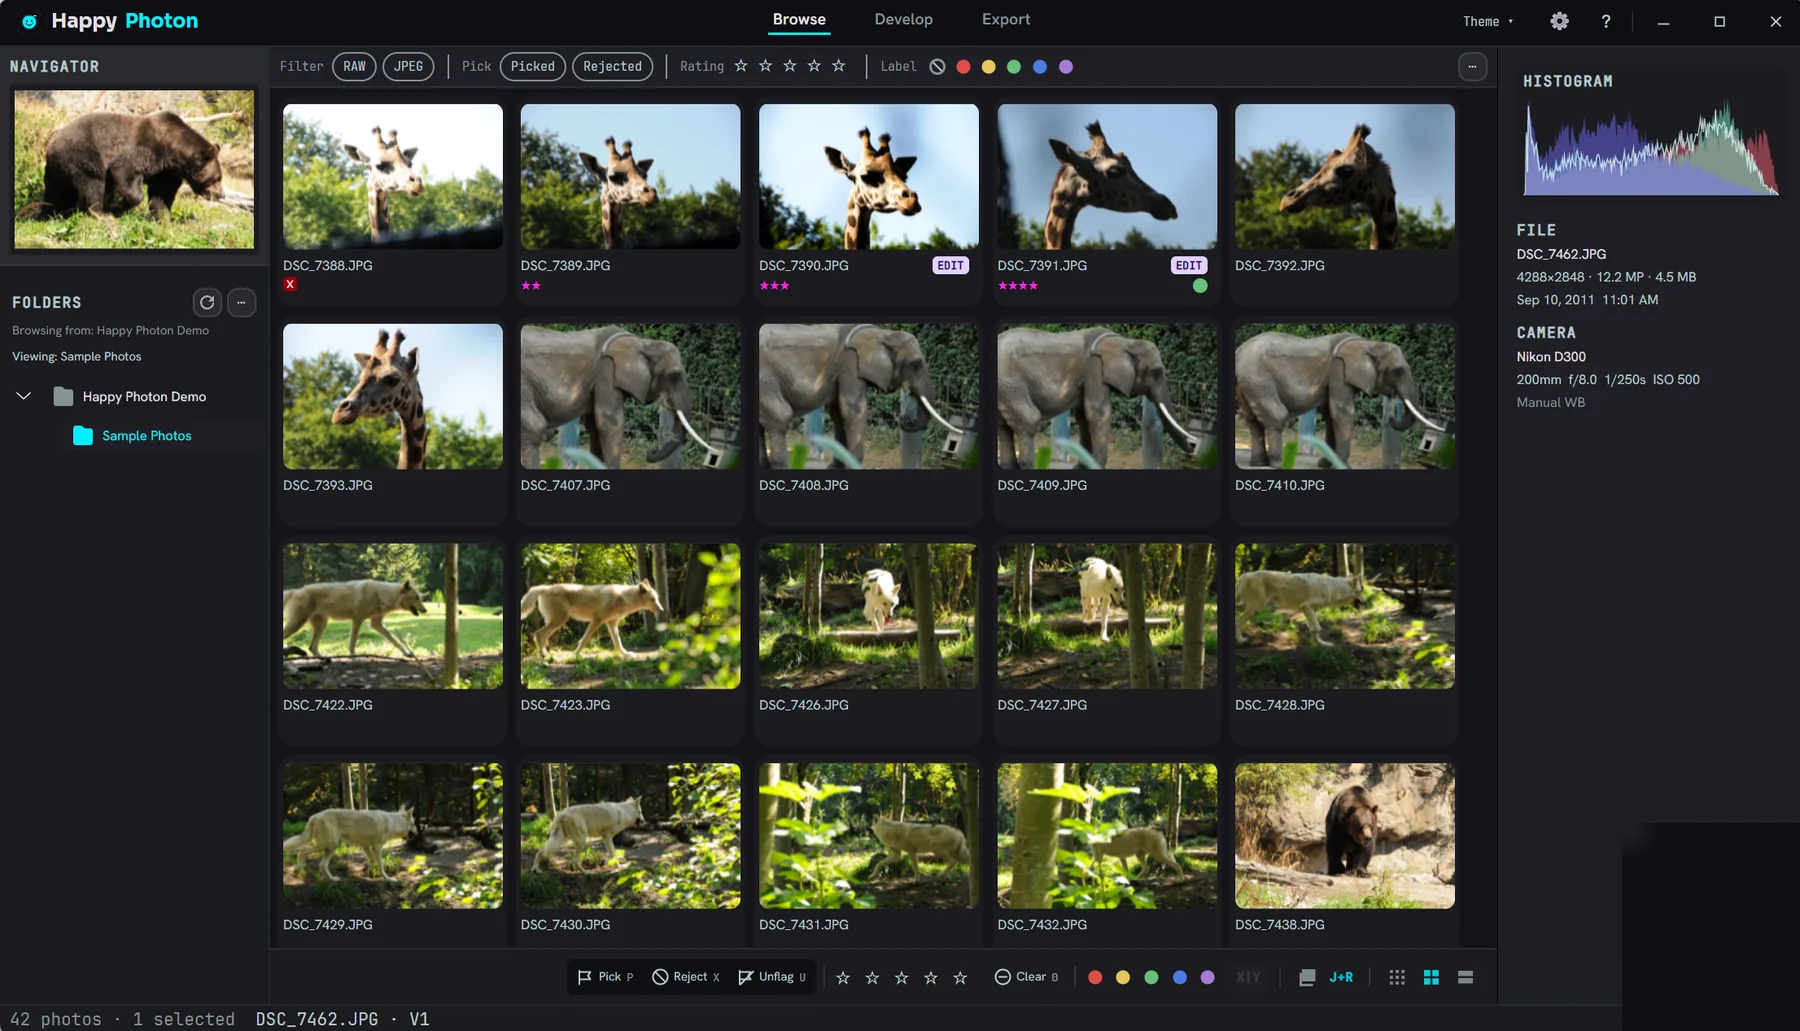
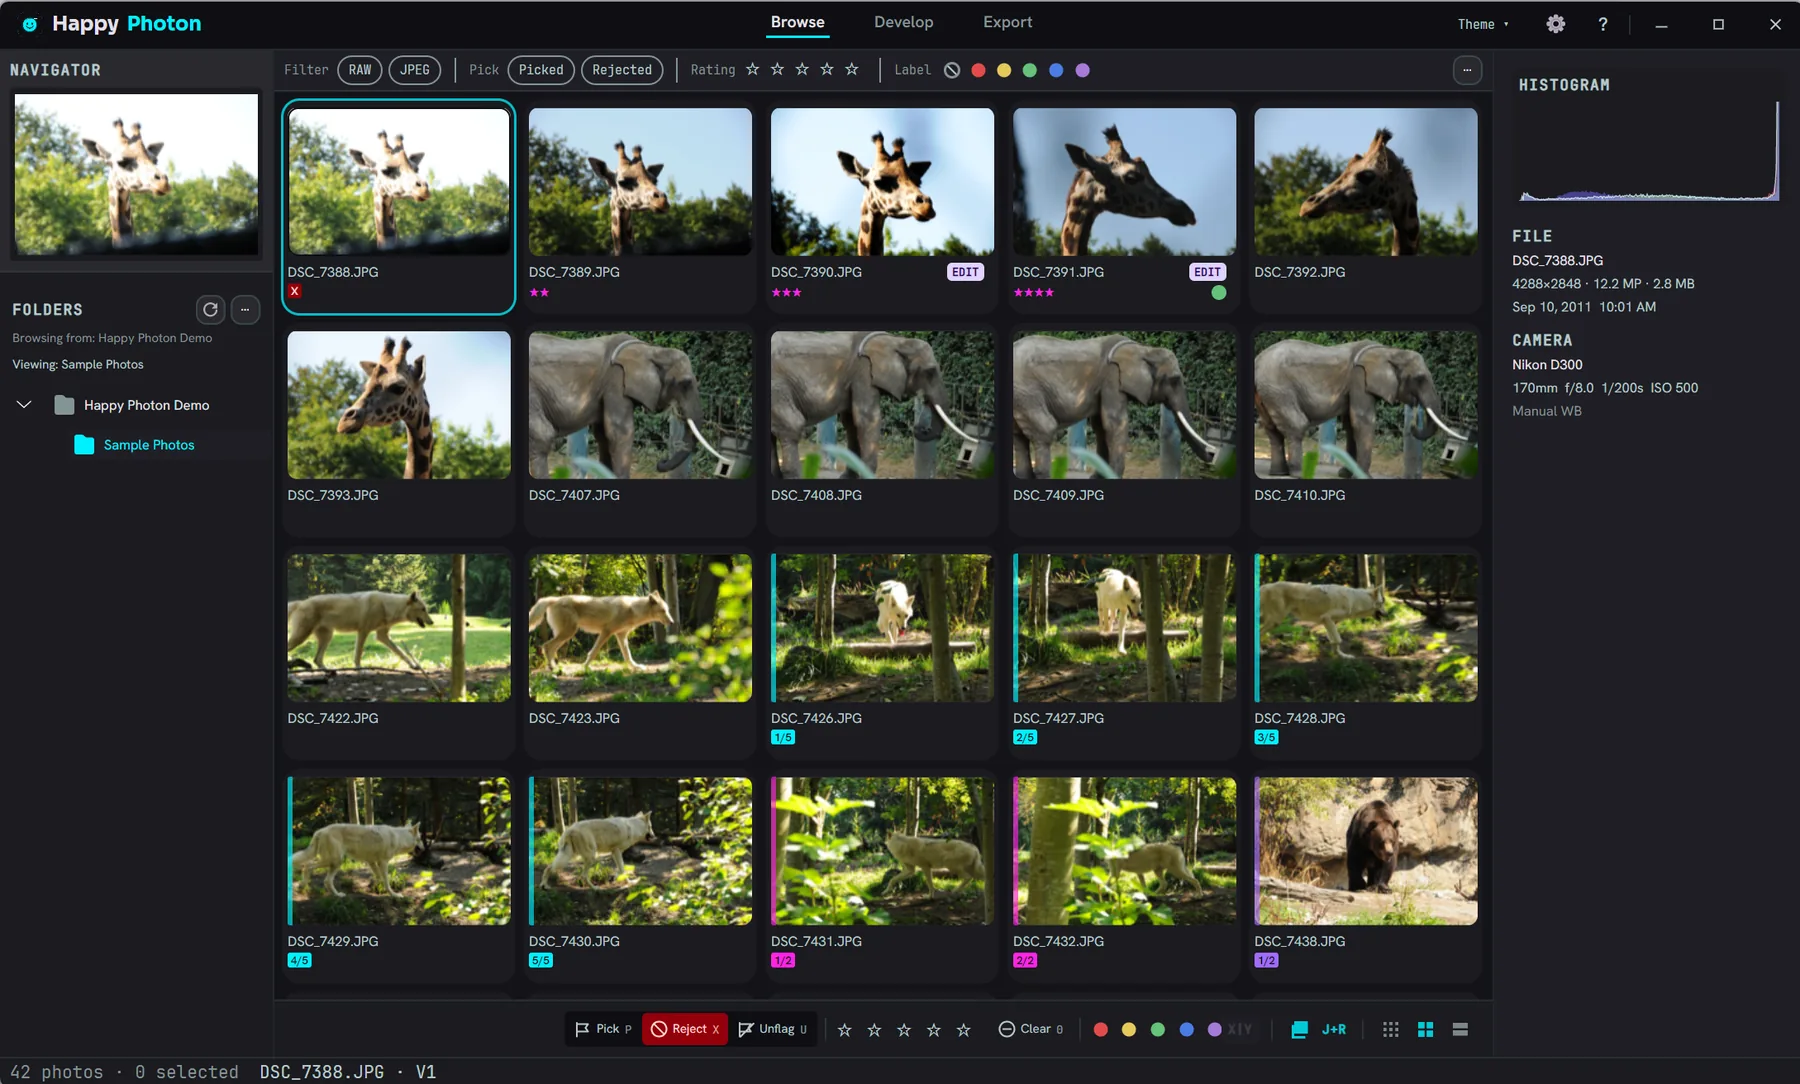
Recapture the Browse screenshot without the corner artifact

diff --git a/site/pages/photo-editor-macos.html b/site/pages/photo-editor-macos.html
@@ -31,7 +31,7 @@
         <div class="window-bar" aria-hidden="true"><span></span><span></span><span></span><b>BROWSE · MACOS</b></div>
         <picture>
           <source srcset="{{BASE_PATH}}assets/images/browse-720.webp 720w, {{BASE_PATH}}assets/images/browse-1200.webp 1200w, {{BASE_PATH}}assets/images/browse-1800.webp 1800w" sizes="(max-width: 760px) 94vw, (max-width: 1300px) 92vw, 1220px" type="image/webp">
-          <img src="{{BASE_PATH}}assets/images/browse-1200.webp" width="1200" height="687" alt="Happy Photon Browse on macOS showing wildlife thumbnails with folders, filters, color labels, flags, ratings, histogram, and capture metadata">
+          <img src="{{BASE_PATH}}assets/images/browse-1200.webp" width="1200" height="723" alt="Happy Photon Browse on macOS showing wildlife thumbnails with folders, filters, color labels, flags, ratings, histogram, and capture metadata">
         </picture>
       </figure>
     </section>

diff --git a/site/pages/photo-editor-windows.html b/site/pages/photo-editor-windows.html
@@ -31,7 +31,7 @@
         <div class="window-bar" aria-hidden="true"><span></span><span></span><span></span><b>BROWSE · WINDOWS</b></div>
         <picture>
           <source srcset="{{BASE_PATH}}assets/images/browse-720.webp 720w, {{BASE_PATH}}assets/images/browse-1200.webp 1200w, {{BASE_PATH}}assets/images/browse-1800.webp 1800w" sizes="(max-width: 760px) 94vw, (max-width: 1300px) 92vw, 1220px" type="image/webp">
-          <img src="{{BASE_PATH}}assets/images/browse-1200.webp" width="1200" height="687" alt="Happy Photon Browse on Windows showing wildlife thumbnails with filters, color labels, flags, ratings, histogram, and capture metadata">
+          <img src="{{BASE_PATH}}assets/images/browse-1200.webp" width="1200" height="723" alt="Happy Photon Browse on Windows showing wildlife thumbnails with filters, color labels, flags, ratings, histogram, and capture metadata">
         </picture>
       </figure>
     </section>

diff --git a/site/partials/home/hero.html b/site/partials/home/hero.html
@@ -20,7 +20,7 @@
     <div class="window-bar" aria-hidden="true"><span></span><span></span><span></span><b>BROWSE</b></div>
     <picture>
       <source srcset="{{BASE_PATH}}assets/images/browse-720.webp 720w, {{BASE_PATH}}assets/images/browse-1200.webp 1200w, {{BASE_PATH}}assets/images/browse-1800.webp 1800w" sizes="(max-width: 760px) 94vw, (max-width: 1300px) 92vw, 1220px" type="image/webp">
-      <img src="{{BASE_PATH}}assets/images/browse-1200.webp" width="1200" height="687" alt="Happy Photon Browse showing wildlife thumbnails with flags, star ratings, color labels, the filter bar, histogram, and capture metadata">
+      <img src="{{BASE_PATH}}assets/images/browse-1200.webp" width="1200" height="723" alt="Happy Photon Browse showing wildlife thumbnails with flags, star ratings, color labels, the filter bar, histogram, and capture metadata">
     </picture>
   </figure>
 </section>
